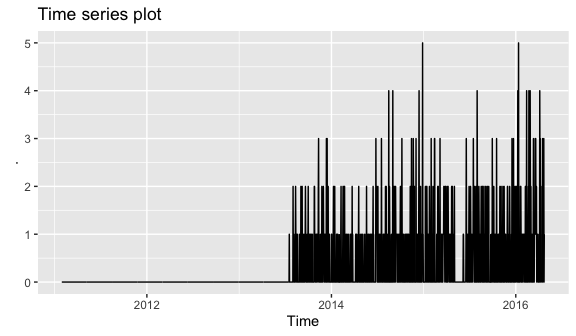
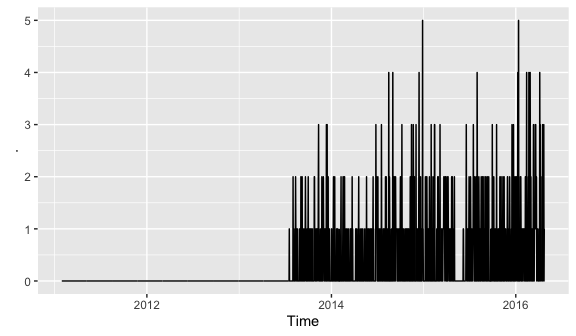
series plot

diff --git a/README.md b/README.md
@@ -266,9 +266,8 @@ library(xts)
 #> 
 #>     as.Date, as.Date.numeric
 library(magrittr)
-ts <- M5[[1]]
-xts(ts$x, order.by = calendar$date[1:ts$n]) %>% 
-   autoplot() + ggtitle("Time series plot") + xlab("Time")
+xts(M5[[1]]$x, order.by = calendar$date[1:M5[[1]]$n]) %>% 
+   autoplot() + xlab("Time")
 ```
 
 ![](series-plot.png)
